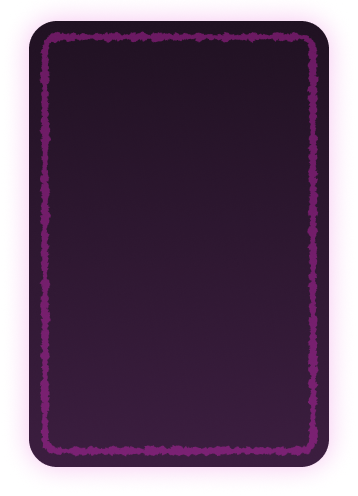
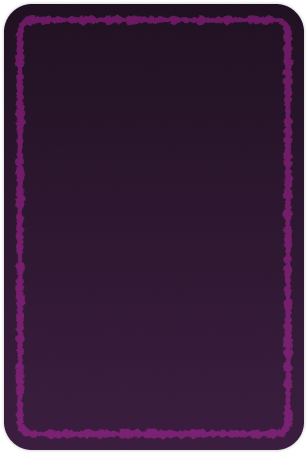
feat: fix cards and shi

Changed region(s): [[0.0, 0.0, 0.9935, 1.0]]

diff --git a/Assets/Scripts/Room/RoomController.cs b/Assets/Scripts/Room/RoomController.cs
@@ -7,23 +7,36 @@ using Random = UnityEngine.Random;
 
 namespace Room {
 	public class RoomController : MonoBehaviour {
+		public static RoomController Instance;
+
 		[SerializeField] private RoomConfigurations roomConfigurations;
 
+		[Header("Refs")]
 		public RoomConfigurationData selectedRoomConfiguration;
-		public RoomRefs              roomRefs;
+		public RoomRefs selectedRoomRefs;
 
 		private void Awake() {
 			selectedRoomConfiguration = roomConfigurations.Data[Random.Range(0, roomConfigurations.Data.Length)];
 			Debug.Log($"Selected room configuration: {selectedRoomConfiguration.difficulty}");
+
+			if (Instance != null && Instance != this) {
+				Destroy(gameObject);
+				return;
+			}
+
+			Instance = this;
 		}
 
 		private void Start() {
 			var levelGameObject = Instantiate(selectedRoomConfiguration.levelPrefab, new Vector3(0, 0, 0),
 			                                  Quaternion.identity);
 
-			roomRefs = levelGameObject.GetComponent<RoomRefs>();
+			selectedRoomRefs = levelGameObject.GetComponent<RoomRefs>();
 
-			PlayerController.Instance.transform.position = roomRefs.playerSpawnPoint.transform.position;
+			PlayerController.Instance.transform.position = selectedRoomRefs.playerSpawnPoint.transform.position;
 		}
+
+		public void UnlockEscape() => Debug.Log("unlock escape");
+		public void EscapeRoom()   => Debug.Log("escape ze room");
 	}
 }
